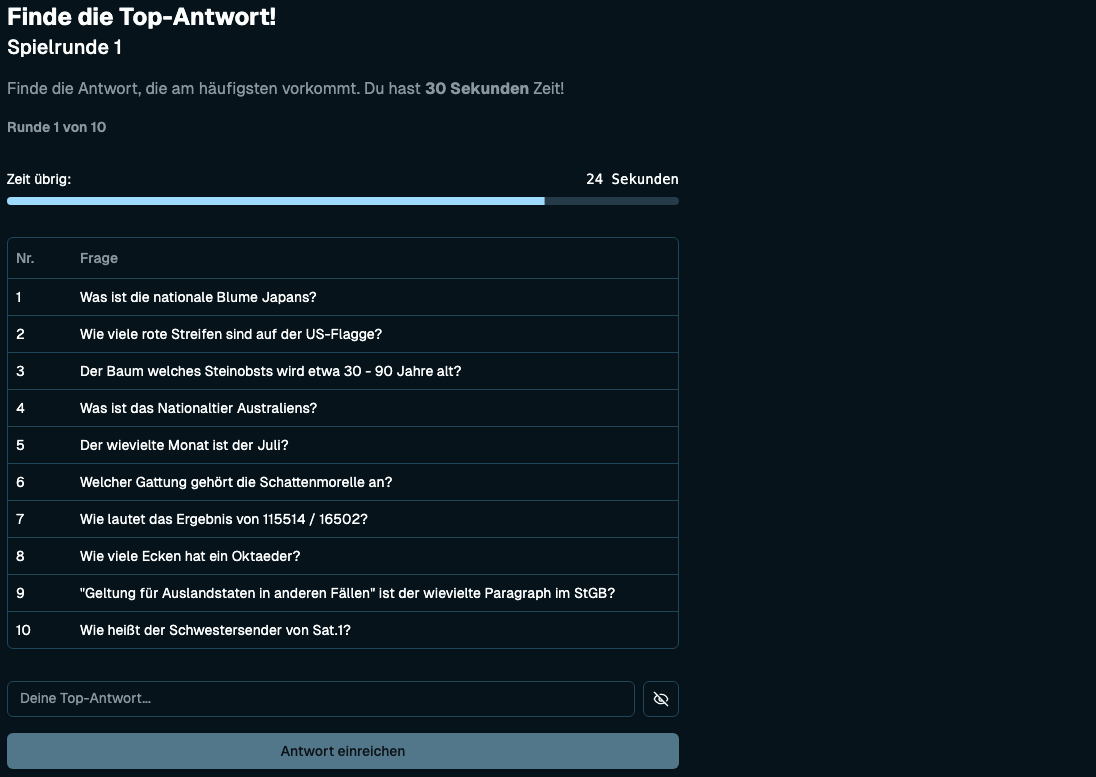
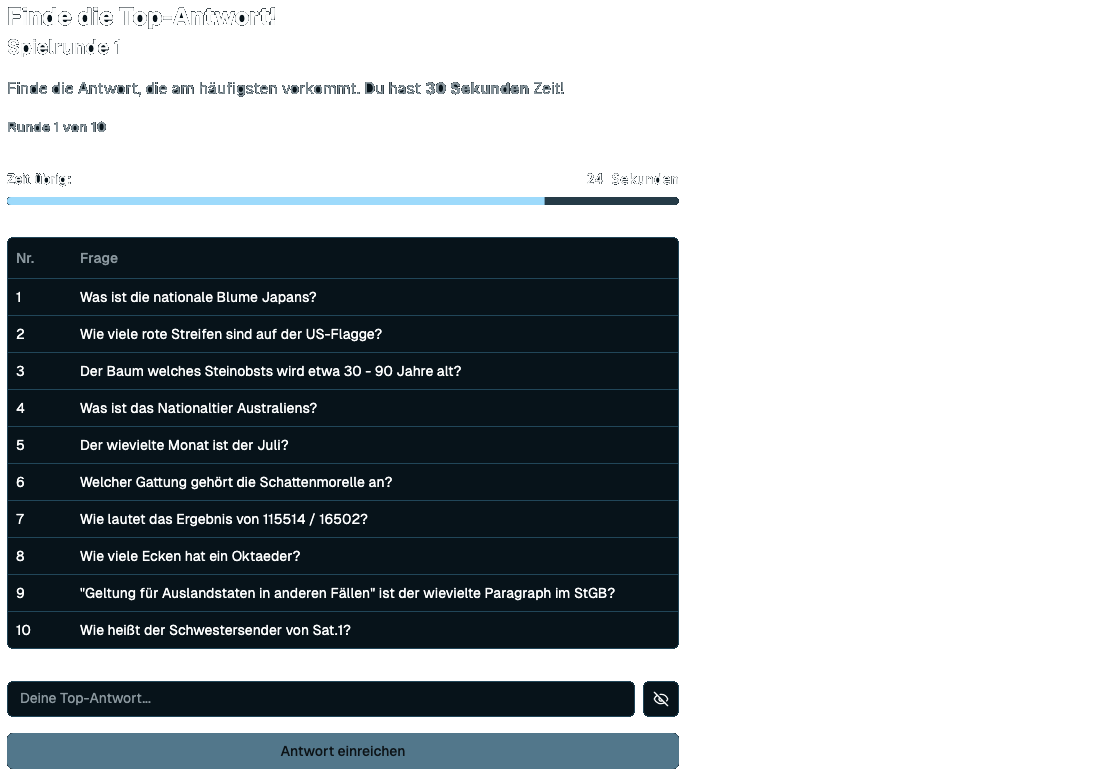
fix: update demo images and adjust styles in LandingHeader for improved visual consistency

diff --git a/src/components/LandingHeader.tsx b/src/components/LandingHeader.tsx
@@ -28,7 +28,7 @@ export default function LandingHeader() {
           </defs>
         </svg>
         <div className="mx-auto max-w-md text-center lg:mx-0 lg:flex-auto lg:py-32 lg:text-left">
-          <div className="relative w-fit mx-auto md:mx-0">
+          <div className="relative mx-auto w-fit md:mx-0">
             <h2 className="w-fit bg-gradient-to-r from-primary to-secondary bg-clip-text text-3xl font-semibold tracking-tight text-transparent sm:text-4xl">
               Pick The Top
               <br />
@@ -66,14 +66,14 @@ export default function LandingHeader() {
             src="demo_dark.png"
             width={1824}
             height={1080}
-            className="absolute left-0 top-0 hidden w-[57rem] max-w-none rounded-md bg-white/5 ring-1 ring-white/10 dark:block"
+            className="bg-white/2 absolute left-0 top-0 hidden w-[57rem] max-w-none rounded-md rounded-tl-lg border border-muted/20 p-3 ring-1 ring-white/10 dark:block"
           />
           <img
             alt="App screenshot"
             src="demo_light.png"
             width={1824}
             height={1080}
-            className="absolute left-0 top-0 block w-[57rem] max-w-none rounded-md bg-white/5 ring-1 ring-white/10 dark:hidden"
+            className="bg-white/2 absolute left-0 top-0 block w-[57rem] max-w-none rounded-md rounded-tl-lg border border-muted bg-[#f7f6ff] ring-1 ring-white/10 dark:hidden p-3"
           />
         </div>
       </div>
